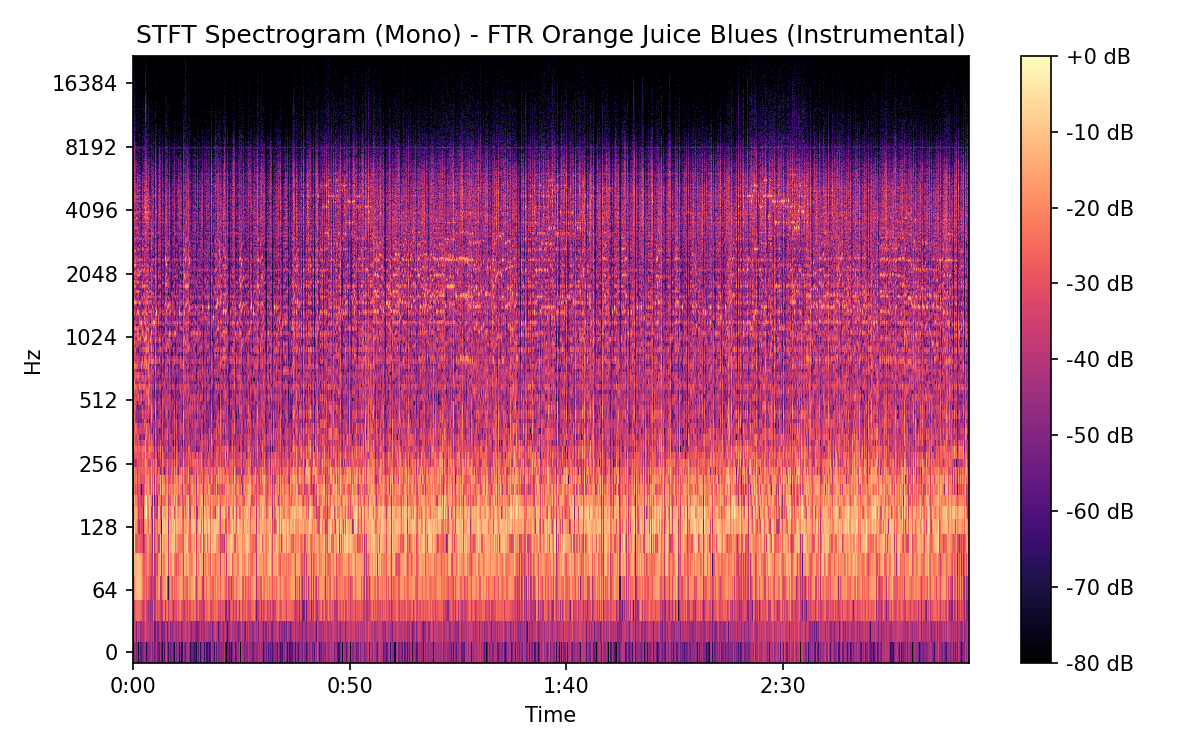
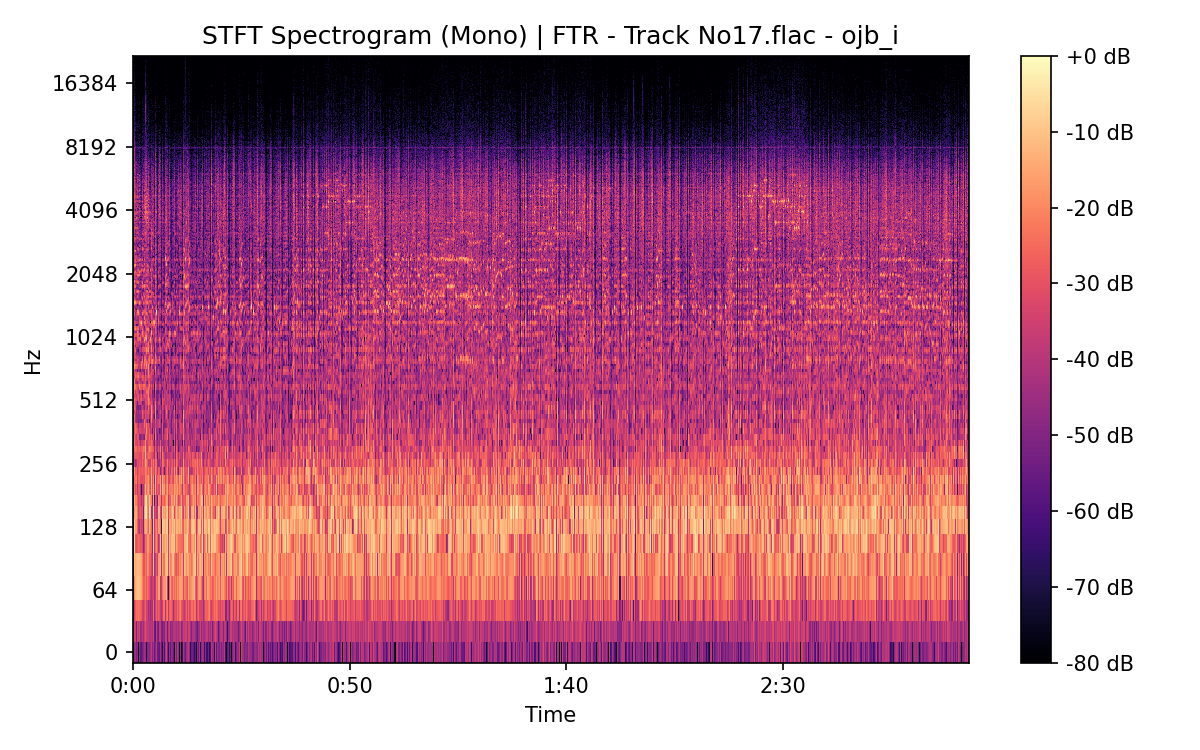
reworked plots titles to use song label and filename

Changed region(s): [[0.0925, 0.0307, 0.8017, 0.0613]]

diff --git a/analyse_song/utils/plotting.py b/analyse_song/utils/plotting.py
@@ -75,7 +75,9 @@ def plot_spectrograms(
             cmap="magma",
         )
         plt.colorbar(format="%+2.0f dB")
-        plt.title(f"STFT Spectrogram (Mono) - {v.label} {song_title}")
+        plt.title(
+            f"STFT Spectrogram (Mono) | {v.label} - {os.path.basename(v.file)} - {song_label}"
+        )
         plt.tight_layout()
         path, name = unique_path(
             os.path.join(outdir, f"{song_label}-{v.label}_spectrogram_Mono.png")
@@ -95,7 +97,9 @@ def plot_spectrograms(
             cmap="magma",
         )
         plt.colorbar(format="%+2.0f dB")
-        plt.title(f"STFT Spectrogram (Left) - {v.label} {song_title}")
+        plt.title(
+            f"STFT Spectrogram (Left) | {v.label} - {os.path.basename(v.file)} - {song_label}"
+        )
         plt.tight_layout()
         path, name = unique_path(
             os.path.join(outdir, f"{song_label}-{v.label}_spectrogram_L.png")
@@ -115,7 +119,9 @@ def plot_spectrograms(
             cmap="magma",
         )
         plt.colorbar(format="%+2.0f dB")
-        plt.title(f"STFT Spectrogram (Right) - {v.label} {song_title}")
+        plt.title(
+            f"STFT Spectrogram (Right) | {v.label} - {os.path.basename(v.file)} - {song_label}"
+        )
         plt.tight_layout()
         path, name = unique_path(
             os.path.join(outdir, f"{song_label}-{v.label}_spectrogram_R.png")
@@ -140,7 +146,9 @@ def plot_mel_spectrograms(
         path, name = unique_path(
             os.path.join(outdir, f"{song_label}-{v.label}_melspec_Mono.png")
         )
-        plt.title(f"Mel Spectrogram (Mono) - {v.label} {song_label}")
+        plt.title(
+            f"Mel Spectrogram (Mono) | {v.label} - {os.path.basename(v.file)} - {song_label}"
+        )
         plt.tight_layout()
         plt.savefig(path, dpi=150)
         v.plots["melspec_Mono"] = name
@@ -157,7 +165,9 @@ def plot_mel_spectrograms(
         path, name = unique_path(
             os.path.join(outdir, f"{song_label}-{v.label}_melspec_L.png")
         )
-        plt.title(f"Mel Spectrogram (Left) - {v.label} {song_title}")
+        plt.title(
+            f"Mel Spectrogram (Left) | {v.label} - {os.path.basename(v.file)} - {song_label}"
+        )
         plt.tight_layout()
         plt.savefig(path, dpi=150)
         v.plots["melspec_L"] = name
@@ -174,7 +184,9 @@ def plot_mel_spectrograms(
         path, name = unique_path(
             os.path.join(outdir, f"{song_label}-{v.label}_melspec_R.png")
         )
-        plt.title(f"Mel Spectrogram (Right) - {v.label} {song_title}")
+        plt.title(
+            f"Mel Spectrogram (Right) | {v.label} - {os.path.basename(v.file)} - {song_label}"
+        )
         plt.tight_layout()
         plt.savefig(path, dpi=150)
         v.plots["melspec_R"] = name
@@ -345,7 +357,9 @@ def plot_lr_balance_bars(
 
         ax1.set_xticks(x)
         ax1.set_xticklabels(["L", "R"])
-        plt.title(f"Stereo Balance — {song_label} {v.label}")
+        plt.title(
+            f"Stereo Balance | {v.label} - {os.path.basename(v.file)} - {song_label}"
+        )
         h1, l1 = ax1.get_legend_handles_labels()
         h2, l2 = ax2.get_legend_handles_labels()
         ax1.legend(h1 + h2, l1 + l2, loc="upper left")

diff --git a/docs/songs/ojb_i.md b/docs/songs/ojb_i.md
@@ -1,9 +1,10 @@
 ---
 title: "Orange Juice Blues (Instrumental)"
 song_label: ojb_i
+ref_title_version: FTR
 ---
 
-# Orange Juice Blues (Instrumental)
+# Orange Juice Blues (Instrumental) (title taken from FTR)
 
 ## Details
 
@@ -27,15 +28,15 @@ song_label: ojb_i
 
 ### FTR
 
-![STFT Spectrogram (Left)](../assets/songs/ojb_i/ojb_i-FTR_spectrogram_L(2).png)
+![STFT Spectrogram (Left)](../assets/songs/ojb_i/ojb_i-FTR_spectrogram_L.png)
 
-![STFT Spectrogram (Right)](../assets/songs/ojb_i/ojb_i-FTR_spectrogram_R(2).png)
+![STFT Spectrogram (Right)](../assets/songs/ojb_i/ojb_i-FTR_spectrogram_R.png)
 
-![Mel Spectrogram (Left)](../assets/songs/ojb_i/ojb_i-FTR_melspec_L(2).png)
+![Mel Spectrogram (Left)](../assets/songs/ojb_i/ojb_i-FTR_melspec_L.png)
 
-![Mel Spectrogram (Right)](../assets/songs/ojb_i/ojb_i-FTR_melspec_R(2).png)
+![Mel Spectrogram (Right)](../assets/songs/ojb_i/ojb_i-FTR_melspec_R.png)
 
-![Stereo Balance Bars](../assets/songs/ojb_i/ojb_i-FTR_balance(2).png)
+![Stereo Balance Bars](../assets/songs/ojb_i/ojb_i-FTR_balance.png)
 
 ### FTR
 
@@ -53,9 +54,9 @@ song_label: ojb_i
 
 ### FTR
 
-![STFT Spectrogram (Mono)](../assets/songs/ojb_i/ojb_i-FTR_spectrogram_Mono(2).png)
+![STFT Spectrogram (Mono)](../assets/songs/ojb_i/ojb_i-FTR_spectrogram_Mono.png)
 
-![Mel Spectrogram (Mono)](../assets/songs/ojb_i/ojb_i-FTR_melspec_Mono(2).png)
+![Mel Spectrogram (Mono)](../assets/songs/ojb_i/ojb_i-FTR_melspec_Mono.png)
 
 ### FTR
 
@@ -74,11 +75,12 @@ Reference version: **FTR**
 
 ![Pitch Offsets](../assets/songs/ojb_i/ojb_i-pitch_offsets.png)
 
-```
+````text
 Pitch/Speed analysis (reference = FTR)
 ============================================================
 
 FTR: shift=0 st ; Δtuning=0.0 cents ; speed_from_pitch=1.0000 ; duration_ratio(ref/cmp)=1.0000
 FTR: shift=0 st ; Δtuning=-14.0 cents ; speed_from_pitch=1.0000 ; duration_ratio(ref/cmp)=0.9928
-```
+
+````
 

diff --git a/results/ojb_i/ojb_i.md b/results/ojb_i/ojb_i.md
@@ -1,9 +1,10 @@
 ---
 title: "Orange Juice Blues (Instrumental)"
 song_label: ojb_i
+ref_title_version: FTR
 ---
 
-# Orange Juice Blues (Instrumental)
+# Orange Juice Blues (Instrumental) (title taken from FTR)
 
 ## Details
 
@@ -74,11 +75,12 @@ Reference version: **FTR**
 
 ![Pitch Offsets](ojb_i-pitch_offsets.png)
 
-```
+````text
 Pitch/Speed analysis (reference = FTR)
 ============================================================
 
 FTR: shift=0 st ; Δtuning=0.0 cents ; speed_from_pitch=1.0000 ; duration_ratio(ref/cmp)=1.0000
 FTR: shift=0 st ; Δtuning=-14.0 cents ; speed_from_pitch=1.0000 ; duration_ratio(ref/cmp)=0.9928
-```
+
+````
 

diff --git a/docs/songs/index.md b/docs/songs/index.md
@@ -8,5 +8,6 @@ Click on any entry to view detailed comparisons and plots.
 - [Instrumental #4](./inst4.md)
 - [Lock Your Door](./lyd.md)
 - [Nothing Was Delivered (Take 3)](./nwd_t3.md)
+- [Orange Juice Blues (Instrumental)](./ojb_i.md)
 - [See You Later Allen Ginsberg (Take 2)](./sylag_t2.md)
 - [You Win Again](./ywa.md)
